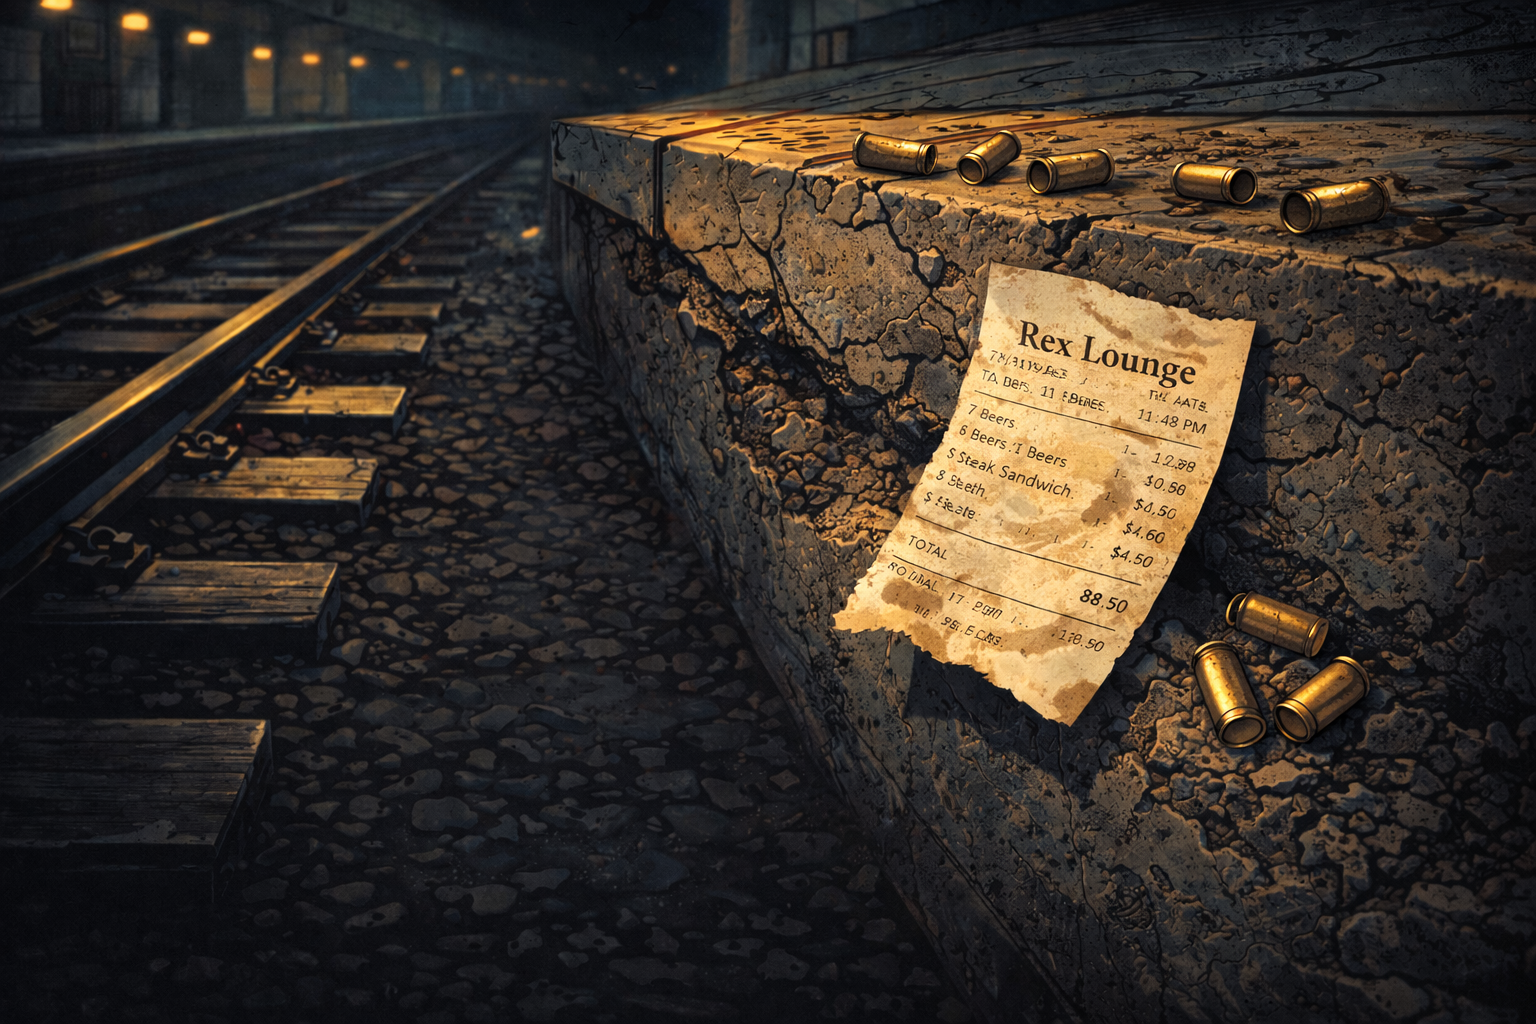
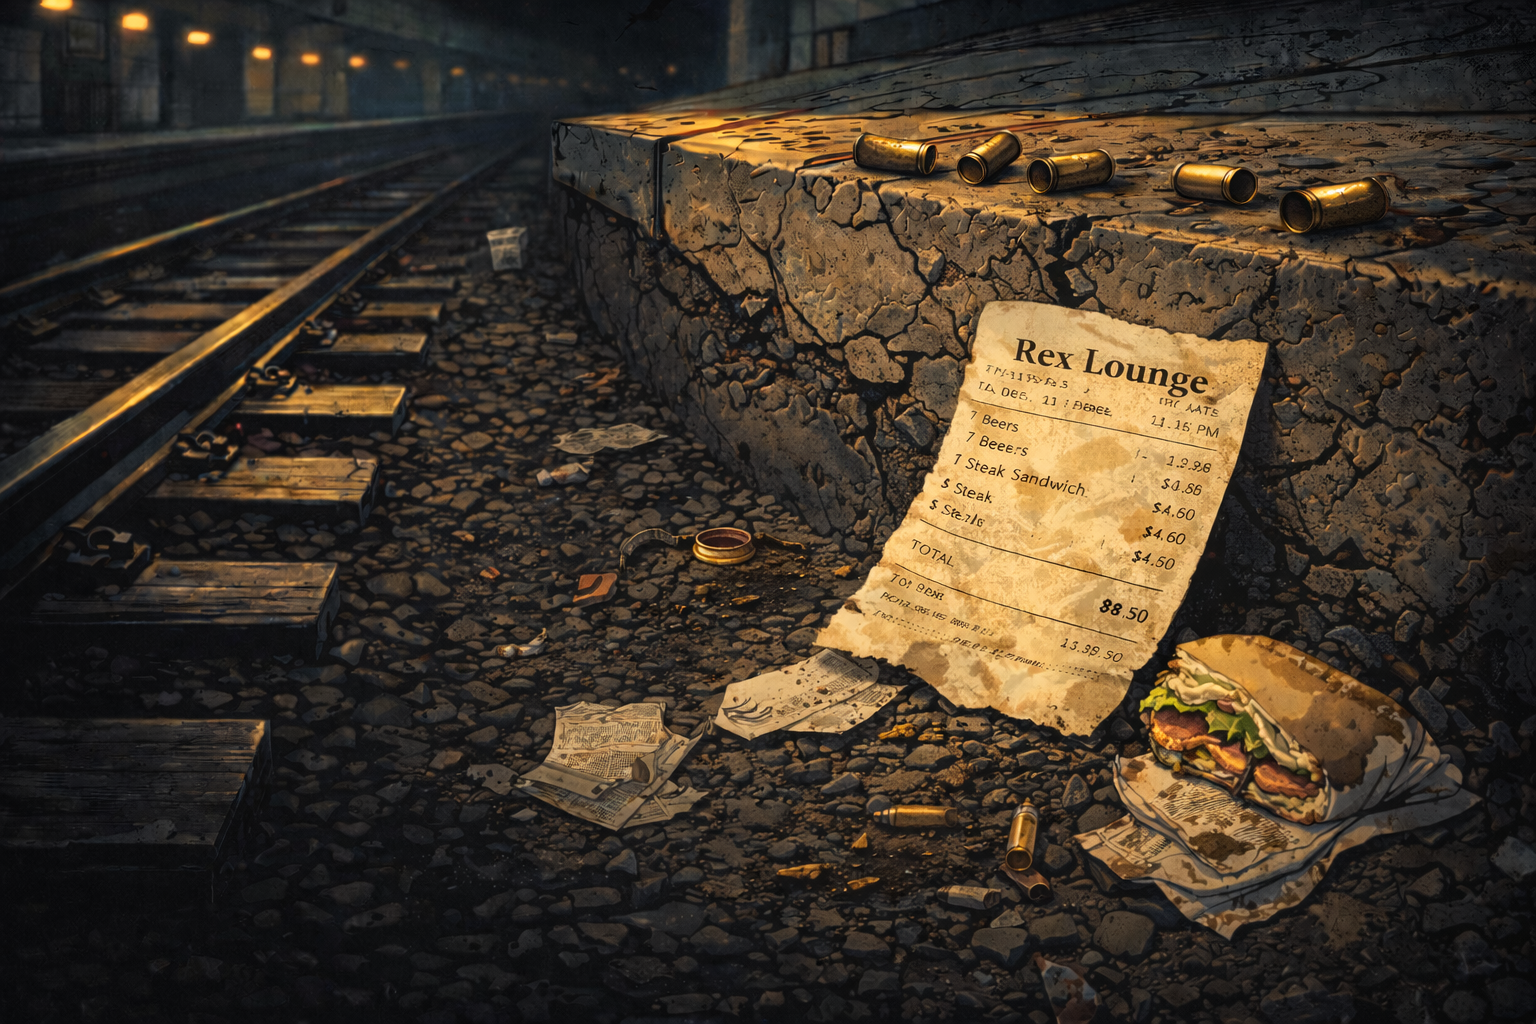
Update Dialogs

diff --git a/chi-noir/app/scene2/page.tsx b/chi-noir/app/scene2/page.tsx
@@ -51,8 +51,9 @@ export default function Scene2() {
   ];
 
   let sceneMessages: string[] = [
-    "Welcome back, Detective. This house is where Viktor Bottom has been killed.",
-    "We need to investigate the crime scene further to gather more evidence and find out who the culprit is.",
+    "Welcome back, Detective. This is the house of the victim, Jackob Bottom. He was found murdered here this morning.",
+    "There is no sign of forced entry, which suggests that the perpetrator might have been someone he knows, or someone who has a key to the house.",
+    "Feds think that this is a double homicide case, so we need to investigate the house quickly and find the perpetrator before they take the case from us. Again...",
     "Let's start by examining the crime scene and collecting any clues we can find, let me know where would you like to investigate.",
   ];
 
@@ -63,9 +64,11 @@ export default function Scene2() {
   ];
 
   let bodyMessages: string[] = [
-    "Upon examining the body, we can see that  was shot at close range, and there are traces of gunpowder on his hands.",
-    "This suggests that he might have been involved in a struggle with the assailant, or he might have been the one who fired the gun.",
-    "We also found a torn piece of fabric in his hand, which could be a crucial piece of evidence.",
+    "After looking at the body we can see that Jackob has died by hitting his head really hard on the nightstand, which caused a severe brain hemorrhage.",
+    "I am pretty sure that he is the man who was in the photograph we found in the previous crime scene, the ginger man.",
+    "There are also some bruises on his arms and legs, which suggests that he might have been involved in a struggle with the assailant.",
+    "We found his diary in his room, and it seems like he has a relationship with the previous victim.",
+    "He is married to Rebecca Bottom, can this be a love triangle gone wrong?",
   ];
   let bodyActions: string[] = ["Back to Scene"];
   let bodyActionEvents: Function[] = [
@@ -89,8 +92,9 @@ export default function Scene2() {
   ];
 
   let bathroomMessages: string[] = [
-    "This is how the logs are looking like, we can see that there was a gunshot sound detected at 2:15 AM, and there were some unusual activities around that time.",
-    "We can also see that there were some people who were around the area at that time, but we need to investigate further to find out who they are.",
+    "Bathroom is pretty clean, there is no sign of struggle or any other things that bats my eye.",
+    "But we did found a pregnancy test in the trash can, and it is positive.",
+    "I am not sure if we should trust the results, since it is a really cheap one, but it might still be useful information.",
   ];
   let bathroomActions: string[] = ["Back to Scene"];
   let bathroomActionEvents: Function[] = [
@@ -113,8 +117,11 @@ export default function Scene2() {
   ];
 
   let kitchenMessages: string[] = [
-    "The kitchen surveillance footage shows a suspicious individual wearing a hoodie and sunglasses, who was seen near the crime scene around the time of the murder.",
-    "We need to analyze this footage carefully to identify the suspect and gather more evidence.",
+    "In the kitchen, we can see harsh signs of struggle, there are broken dishes and overturned furniture.",
+    "There is no signs of any blood here, which suggests that the struggle might have happened in another room, and the perpetrator just threw the dishes to make it look like there was a struggle in the kitchen.",
+    "We also found a really nice bottle of Scotch whiskey on the counter, and it is half empty, seems like the victim was drinking before the murder.",
+    "Next to the Scotch Bottle we found a Pepsi Can, with a hint of lipstick on it. No one would say no to this fine bottle of Scotch.",
+    "Unless they want to stay away from alcohol...",
   ];
   let kitchenActions: string[] = ["Back to Scene"];
   let kitchenActionEvents: Function[] = [
@@ -137,10 +144,11 @@ export default function Scene2() {
   ];
 
   let endSceneMessages: string[] = [
-    "Great work, Detective! We have gathered enough intel for now.",
-    "Let's leave before media gets all up in our business.",
+    "I believe we gathered enough intel to point some fingers.",
+    "Let's go to the station, and inspect the suspects we have gathered evidence against.",
+    "It's time to finish this case once and for all.",
   ];
-  let endSceneActions: string[] = ["Go Home"];
+  let endSceneActions: string[] = ["Go to Station"];
   let endSceneActionEvents: Function[] = [
     async () => {
       const body = document.querySelector("body");

diff --git a/chi-noir/app/scene1/page.tsx b/chi-noir/app/scene1/page.tsx
@@ -51,19 +51,19 @@ export default function Scene1() {
   ];
 
   let sceneMessages: string[] = [
-    "Welcome to Laselle Stop, Detective. This is the scene of the crime.",
+    "Welcome to Laselle Stop, Detective, the scene of the crime.",
     "We have found out that the victim was a local bouncer named Jackob who works at Rex Lounge.",
     "He was found dead here under the staircase, with a gunshot wound to the chest.",
-    "We only have time before the media arrives, so we need to gather as much evidence as possible.",
-    "Let's start by examining the crime scene and collecting any clues we can find, let me know where would you like to investigate first.",
+    "We do not have much time before the media arrives, so we need to be quick and gather as much evidence as possible.",
+    "Let's start by examining the crime scene and collecting any clues we can find, let me know where would you like to investigate.",
   ];
 
   let sceneActions: string[] = ["Check Body", "Check Logs", "Check Railway"];
 
   let bodyMessages: string[] = [
-    "Upon examining the body, we can see that Jackob was shot at close range, and there are traces of gunpowder on his hands.",
-    "This suggests that he might have been involved in a struggle with the assailant, or he might have been the one who fired the gun.",
-    "We also found a torn piece of fabric in his hand, which could be a crucial piece of evidence.",
+    "Upon examining the body, we can see that Jakob was shot at close range, with a small caliber handgun. The gunshot wound is consistent with a single shot fired from a distance of less than 2 feet.",
+    "Other than the signs of murder, we found a ginger man's photograph in his wallet, seems like a romantic interest.",
+    "We also found a tuft of brown hair on his clothes, this either might be from the perpetrator, or from a random woman in the club.",
   ];
   let bodyActions: string[] = ["Back to Scene"];
   let bodyActionEvents: Function[] = [
@@ -87,8 +87,9 @@ export default function Scene1() {
   ];
 
   let logsMessages: string[] = [
-    "This is how the logs are looking like, we can see that there was a gunshot sound detected at 2:15 AM, and there were some unusual activities around that time.",
-    "We can also see that there were some people who were around the area at that time, but we need to investigate further to find out who they are.",
+    "As we look at the logs, between 1 A.M. and 6 A.M. there were not so many people coming in or out.",
+    "Only thing that interests me is an entry made by John Bummer at around 3 A.M., he has a long criminal record, mostly for drug abuse and petty theft, but he has been known to be violent when under influence.",
+    "I don't think there is any other useful information in the logs, at least more than we have anyways.",
   ];
   let logsActions: string[] = ["Back to Scene"];
   let logsActionEvents: Function[] = [
@@ -111,8 +112,9 @@ export default function Scene1() {
   ];
 
   let railwayMessages: string[] = [
-    "The railway surveillance footage shows a suspicious individual wearing a hoodie and sunglasses, who was seen near the crime scene around the time of the murder.",
-    "We need to analyze this footage carefully to identify the suspect and gather more evidence.",
+    "After cheking the inside the railway, we found 9mm shell casings, which matches the caliber of the gunshot wound on the victim.",
+    "Other than that, we found a receipt from Rex Lounge, the club where the victim works, for a purchase made at around 2:00 A.M., which is around the time of the murder.",
+    "Alos even though it serves alcohol this person did not order alcohol, just a regular Can of Pepsi.",
   ];
   let railwayActions: string[] = ["Back to Scene"];
   let railwayActionEvents: Function[] = [

diff --git a/chi-noir/app/ending/page.tsx b/chi-noir/app/ending/page.tsx
@@ -18,9 +18,9 @@ const delay = (ms: number) => new Promise((resolve) => setTimeout(resolve, ms));
 
 export default function Ending() {
   let sceneMessages: string[] = [
-    "Okay Detective, we have gathered enough evidence and interrogated all the suspects. It's time to piece everything together and solve the case.",
+    "Okay Detective, we have gathered a lot of evidence and information about the case.",
     "With the evidence we have colllected, we chose four suspects to inspect.",
-    "Let's inspect each of them and see if we can find any inconsistencies in their stories or any evidence that points to the culprit.",
+    "Let's inspect each of them and see if we can find any information that can help us connect the dots.",
   ];
   let sceneActions: string[] = [
     "John Bummer",
@@ -116,11 +116,11 @@ export default function Ending() {
           <CharInfoBox
             className="w-full"
             name="John Bummer"
-            description="Description of John Bummer"
+            description="Regular at Rex Lounge, known for his heavy drinking and aggressive behavior. He has a history of bar fights and has been banned from several establishments in the past. He is currently unemployed and has no known source of income."
             occupancy="Unemployed"
             gunLicense={false}
             height="175 cm"
-            weight="100 kg"
+            weight="60 kg"
             alcoholLevel="High"
             salary="$0"
             married={false}
@@ -211,7 +211,7 @@ export default function Ending() {
           <CharInfoBox
             className="w-full"
             name="Rebecca Bottom"
-            description="Description of Rebecca Bottom"
+            description="Wife of Viktor Bottom. She works as a marketing specialist at a local firm. She does not have a history of criminal records other than traffic tickets, and we did not stumble on any alcohol or drug usage in her blood. She does not have a gun license and does not own any firearms legally."
             occupancy="Marketing Specialist"
             gunLicense={false}
             height="160 cm"
@@ -261,14 +261,14 @@ export default function Ending() {
           <CharInfoBox
             className="w-full"
             name="Alex James"
-            description="Description of Alex James"
-            occupancy="Bouncer at Rex Lounge"
+            description="Tall and muscular, Alex works as a bouncer at Rex Lounge. He has a history of minor altercations but no serious criminal record. He has a gun license but does not own a firearm on the records. He is currently single and has no children."
+            occupancy="Bouncer"
             gunLicense={true}
             height="190 cm"
             weight="100 kg"
             alcoholLevel="Low"
             salary="$20,000/yr"
-            married={true}
+            married={false}
           />
           <div className="flex flex-row gap-x-4 mt-4">
             <button className="bg-red-900 text-white px-4 py-2 rounded-lg cursor-pointer hover:text-red-900 hover:bg-white transition duration-300">

diff --git a/chi-noir/app/dayBreak/page.tsx b/chi-noir/app/dayBreak/page.tsx
@@ -9,9 +9,9 @@ const delay = (ms: number) => new Promise((resolve) => setTimeout(resolve, ms));
 
 export default function Scene1() {
   let sceneMessages: string[] = [
-    "Sorry to botheryou at this hour again detective, but we have a new case that just came in.",
-    "We think it might be related to the one you are currently investigating, so we need you to head to the crime scene immediately.",
-    "It is at Lincoln Park, I will meet you there.",
+    "Apologies for bothering you at this late time again detective, but we have a new case that just came in.",
+    "We think it might be related to the one you are currently investigating, so this is a good chance to gather more evidence.",
+    "The victim is murdered in his place. It is at Lincoln Park, I will meet you there.",
   ];
 
   const router = useRouter();

diff --git a/chi-noir/components/MessageBox.tsx b/chi-noir/components/MessageBox.tsx
@@ -36,14 +36,14 @@ export default function MessageBox({
   return (
     <div
       style={{ zIndex: 5 }}
-      className="absolute bottom-1/6 left-1/2 transform -translate-x-1/2  text-white p-6 rounded-lg min-w-2xl max-w-6xl cursor-pointer"
+      className="absolute bottom-1/6 left-1/2 transform -translate-x-1/2  text-white p-6 rounded-lg min-w-2xl max-w-6xl cursor-pointer select-none"
       onClick={handleClick}
     >
       <div className="relative z-20">
         <Image
           src={onPhoneCall ? PhoneCop : Cop}
           alt="Cop"
-          className="absolute left-0 top-1/2 -translate-y-4/4 w-40"
+          className="absolute left-0 top-1/2 -translate-y-4/4 w-48"
           style={{ zIndex: -5 }}
         />
         <div className="flex flex-col z-10 p-5 bg-gray-800 bg-opacity-70 rounded-lg">

diff --git a/chi-noir/app/intro/page.tsx b/chi-noir/app/intro/page.tsx
@@ -11,7 +11,7 @@ export default function Scene1() {
   let sceneMessages: string[] = [
     "Good evening, Detective. Apologies for calling you at this hour, but we have a situation that requires your expertise.",
     "We have a homicide case that just came in, and we need you to head to the crime scene immediately.",
-    "The crime scene is at Laselle Station, a local train stop.",
+    "The crime scene is at Laselle Station, you can come here using the L.",
   ];
 
   const router = useRouter();
